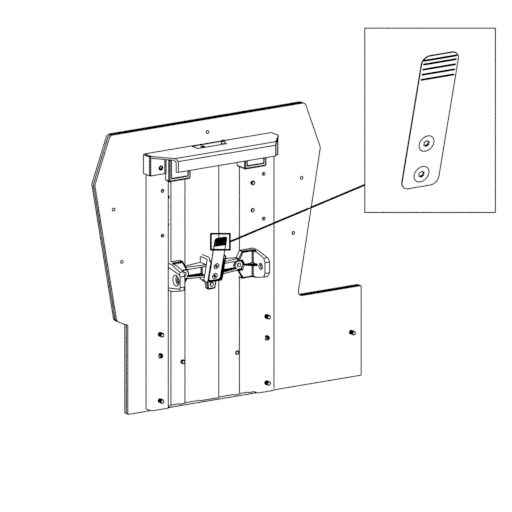
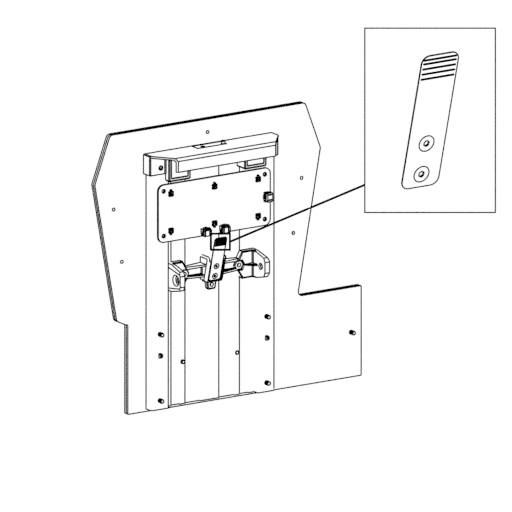
补齐润滑弹片教程中的真实侧键灯光板

Changed region(s): [[0.2812, 0.3125, 0.5312, 0.5]]

diff --git a/docs/simgeki2/maintenance/sidekeys/lubricatespring.md b/docs/simgeki2/maintenance/sidekeys/lubricatespring.md
@@ -18,10 +18,10 @@
 
 4. 移除侧键本身。
 
-   ![在侧键整体上取下按键，基体和弹片仍保留](./imgs/lubricatespring/4.png ':size=256')
+   ![在侧键整体上取下按键，基体和弹片仍保留](./imgs/lubricatespring/4.png?v=pcb-295061637254 ':size=256')
 
 5. 向弹片上端与侧键接触的一面涂抹润滑油，涂抹范围约 1 cm 高。
 
    放大框对应整体图中标出的弹片上端。
 
-   ![整体定位与局部放大：只涂弹片上端约10mm高的接触区](./imgs/lubricatespring/5.png ':size=256')
+   ![整体定位与局部放大：只涂弹片上端约10mm高的接触区](./imgs/lubricatespring/5.png?v=pcb-295061637254 ':size=256')
